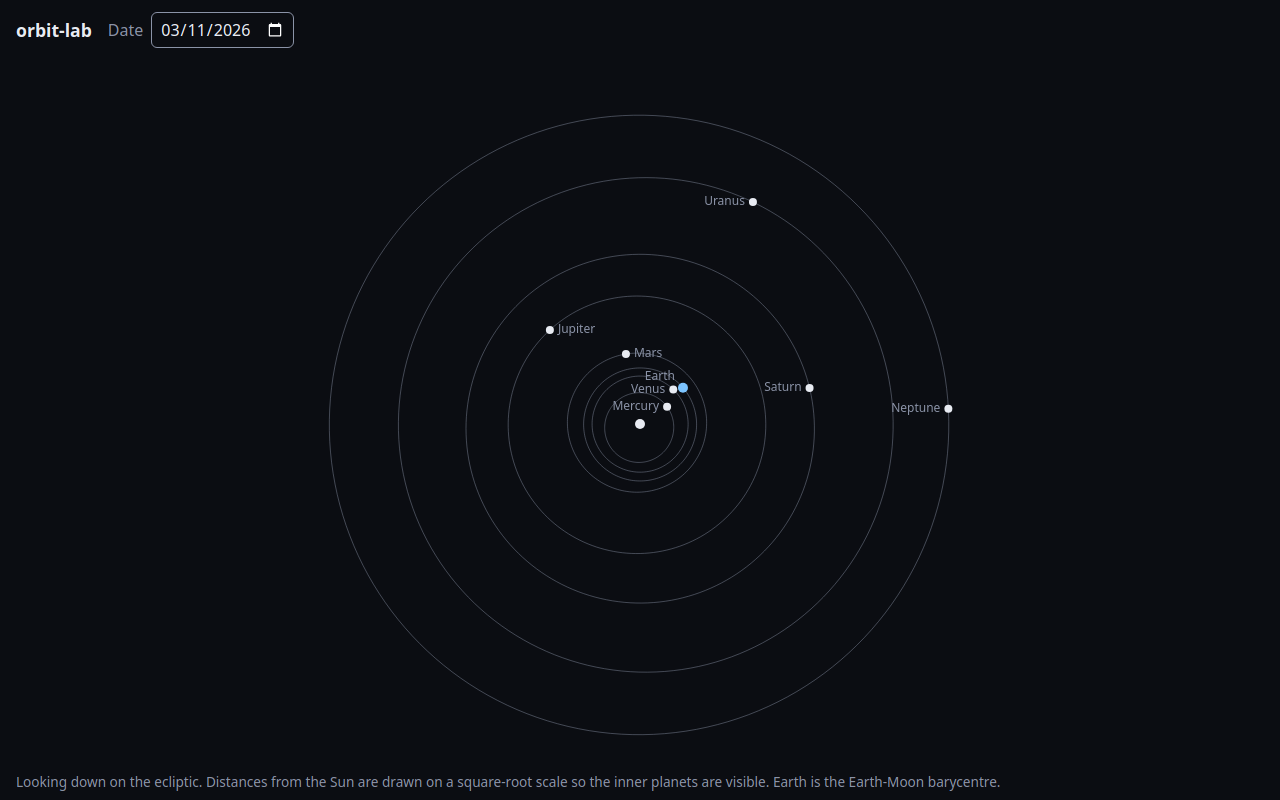
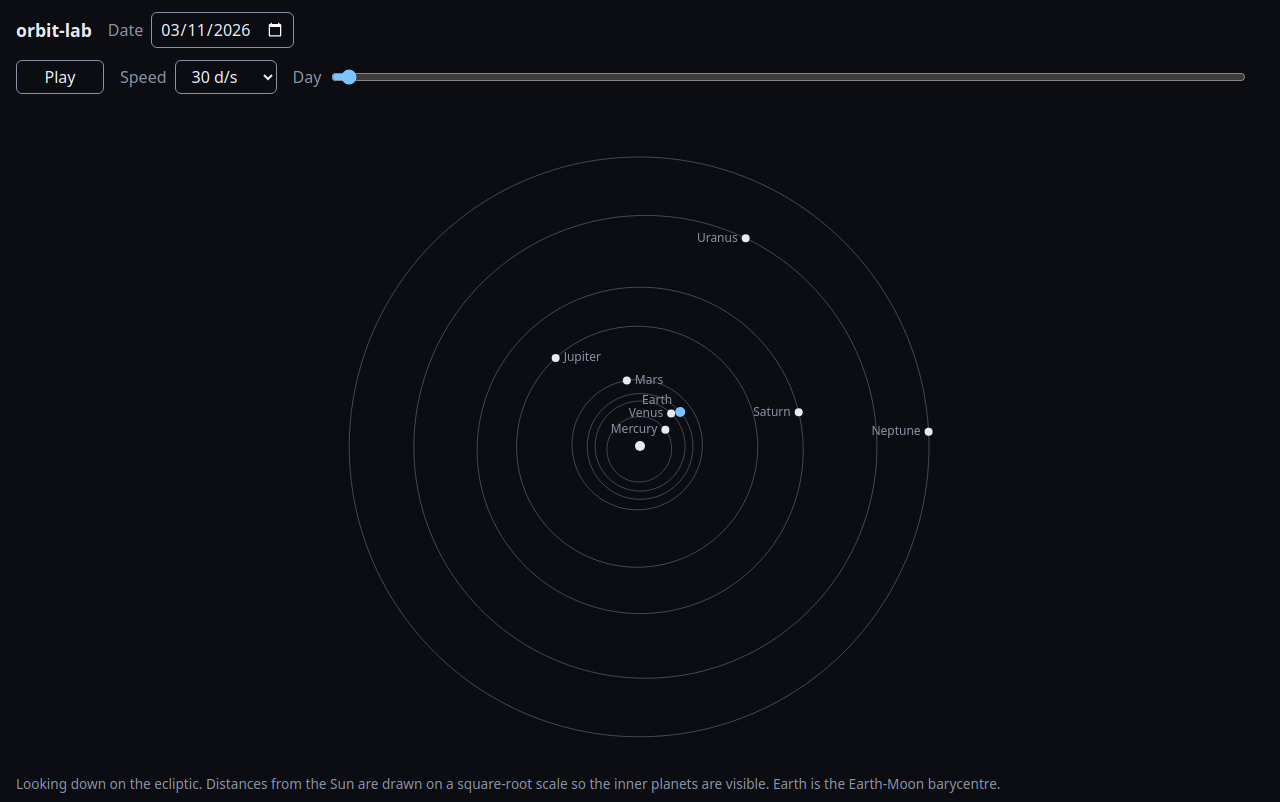
feat: time slider and play controls with a pure clock in core

diff --git a/src/web/main.ts b/src/web/main.ts
@@ -1,3 +1,7 @@
+import {
+  CLOCK_SPAN_DAYS, type ClockState, dayIndexOf, describeSpeed, pause, play, seek, setSpeed, SPEEDS_DAYS_PER_SECOND,
+  stepClock, timeMsOfDayIndex, wholeDay,
+} from '../core/clock';
 import {drawSolarSystem, type Palette} from '../render/draw-solar-system';
 import {formatDateInput, MAX_YEAR, MIN_YEAR, parseDateInput} from './date-input';
 
@@ -6,8 +10,25 @@ const input = document.getElementById('date') as HTMLInputElement;
 const message = document.getElementById('message') as HTMLElement;
 const ctx = canvas.getContext('2d')!;
 
-let current = new Date();
-current = new Date(Date.UTC(current.getUTCFullYear(), current.getUTCMonth(), current.getUTCDate()));
+const playButton = document.getElementById('play') as HTMLButtonElement;
+const speedSelect = document.getElementById('speed') as HTMLSelectElement;
+const slider = document.getElementById('day') as HTMLInputElement;
+const stateLabel = document.getElementById('state') as HTMLElement;
+
+const now = new Date();
+let clock: ClockState = seek(
+  {timeMs: 0, playing: false, daysPerSecond: SPEEDS_DAYS_PER_SECOND[2], stopped: null},
+  Date.UTC(now.getUTCFullYear(), now.getUTCMonth(), now.getUTCDate()),
+);
+let current = wholeDay(clock.timeMs);
+slider.max = String(CLOCK_SPAN_DAYS);
+for (const speed of SPEEDS_DAYS_PER_SECOND) {
+  const option = document.createElement('option');
+  option.value = String(speed);
+  option.textContent = describeSpeed(speed);
+  option.selected = speed === clock.daysPerSecond;
+  speedSelect.append(option);
+}
 input.min = `${MIN_YEAR}-01-01`;
 input.max = `${MAX_YEAR}-12-31`;
 input.value = formatDateInput(current);
@@ -27,6 +48,46 @@ function redraw(): void {
   drawSolarSystem(ctx, {width: rect.width, height: rect.height}, current, palette());
 }
 
+function sync(): void {
+  const day = wholeDay(clock.timeMs);
+  const changed = day.getTime() !== current.getTime();
+  current = day;
+  if (document.activeElement !== input) input.value = formatDateInput(current);
+  slider.value = String(dayIndexOf(clock.timeMs));
+  slider.setAttribute('aria-valuetext', formatDateInput(current));
+  playButton.textContent = clock.playing ? 'Pause' : 'Play';
+  playButton.setAttribute('aria-label', clock.playing ? 'Pause' : 'Play');
+  playButton.setAttribute('aria-pressed', String(clock.playing));
+  stateLabel.textContent = clock.playing
+    ? `Playing at ${describeSpeed(clock.daysPerSecond)}`
+    : clock.stopped === 'end' ? 'Stopped: reached the end of the range (2100)'
+    : clock.stopped === 'start' ? 'Stopped: reached the start of the range (1900)'
+    : 'Paused';
+  if (changed) redraw();
+}
+
+let last: number | null = null;
+function frame(timestamp: number): void {
+  if (!clock.playing) { last = null; return; }
+  if (last !== null) clock = stepClock(clock, timestamp - last);
+  last = timestamp;
+  sync();
+  if (clock.playing) requestAnimationFrame(frame);
+}
+
+playButton.addEventListener('click', () => {
+  clock = clock.playing ? pause(clock) : play(clock);
+  message.textContent = '';
+  sync();
+  if (clock.playing) { last = null; requestAnimationFrame(frame); }
+});
+speedSelect.addEventListener('change', () => { clock = setSpeed(clock, Number(speedSelect.value)); sync(); });
+slider.addEventListener('input', () => {
+  clock = seek(clock, timeMsOfDayIndex(Number(slider.value)));
+  message.textContent = '';
+  sync();
+});
+
 input.addEventListener('input', () => {
   const parsed = parseDateInput(input.value);
   if (!parsed.ok) {
@@ -34,8 +95,8 @@ input.addEventListener('input', () => {
     return;
   }
   message.textContent = '';
-  current = parsed.date;
-  redraw();
+  clock = seek(clock, parsed.date.getTime());
+  sync();
 });
 
 new ResizeObserver(redraw).observe(canvas);

diff --git a/src/core/clock.test.ts b/src/core/clock.test.ts
@@ -1,0 +1,72 @@
+import {expect, test} from 'bun:test';
+import {
+  CLOCK_END_MS, CLOCK_SPAN_DAYS, CLOCK_START_MS, MS_PER_DAY, SPEEDS_DAYS_PER_SECOND,
+  type ClockState, dayIndexOf, describeSpeed, pause, play, seek, setSpeed, stepClock, timeMsOfDayIndex, wholeDay,
+} from './clock';
+
+const base: ClockState = {timeMs: Date.UTC(2000, 0, 1), playing: true, daysPerSecond: 1, stopped: null};
+
+test('each speed advances by exactly speed x elapsed, however the elapsed time is split', () => {
+  for (const speed of SPEEDS_DAYS_PER_SECOND) {
+    const start = {...base, daysPerSecond: speed / 100};
+    let s = start;
+    for (let i = 0; i < 1000; i++) s = stepClock(s, 16);
+    const oneShot = stepClock(start, 16_000);
+    expect(Math.abs(s.timeMs - oneShot.timeMs)).toBeLessThan(1e-3);
+    expect(oneShot.timeMs - start.timeMs).toBeCloseTo((16 * speed * MS_PER_DAY) / 100, 3);
+  }
+});
+
+test('one real second at 1 d/s is one day; 365.25 d/s is a Julian year (a leap year ends 6h short)', () => {
+  expect(stepClock(base, 1000).timeMs - base.timeMs).toBe(MS_PER_DAY);
+  expect(wholeDay(stepClock({...base, daysPerSecond: 365.25}, 1000).timeMs).toISOString()).toBe('2000-12-31T00:00:00.000Z');
+});
+
+test('paused clocks and non-positive elapsed times do not move', () => {
+  expect(stepClock(pause(base), 1000)).toEqual(pause(base));
+  expect(stepClock(base, 0)).toBe(base);
+  expect(stepClock(base, -50)).toBe(base);
+  expect(stepClock(base, NaN)).toBe(base);
+});
+
+test('reaching the end clamps and stops with a reason', () => {
+  const s = stepClock({...base, timeMs: CLOCK_END_MS - MS_PER_DAY, daysPerSecond: 3652.5}, 1000);
+  expect(s).toMatchObject({timeMs: CLOCK_END_MS, playing: false, stopped: 'end'});
+});
+
+test('playing backwards stops at the start', () => {
+  const s = stepClock({...base, timeMs: CLOCK_START_MS + MS_PER_DAY, daysPerSecond: -100}, 1000);
+  expect(s).toMatchObject({timeMs: CLOCK_START_MS, playing: false, stopped: 'start'});
+});
+
+test('play from the end restarts at the beginning and clears the reason', () => {
+  const ended = stepClock({...base, timeMs: CLOCK_END_MS - 1, daysPerSecond: 10}, 1000);
+  const again = play(ended);
+  expect(again).toMatchObject({timeMs: CLOCK_START_MS, playing: true, stopped: null});
+});
+
+test('seek clamps into the range and clears the stop reason', () => {
+  const stopped: ClockState = {...base, playing: false, stopped: 'end'};
+  expect(seek(stopped, Date.UTC(3000, 0, 1))).toMatchObject({timeMs: CLOCK_END_MS, stopped: null});
+  expect(seek(stopped, Date.UTC(1800, 0, 1)).timeMs).toBe(CLOCK_START_MS);
+  expect(seek(stopped, NaN).timeMs).toBe(CLOCK_START_MS);
+});
+
+test('setSpeed keeps position and play state', () => {
+  expect(setSpeed(base, 30)).toEqual({...base, daysPerSecond: 30});
+});
+
+test('day indexes round-trip across the range and the slider span matches the range', () => {
+  expect(CLOCK_SPAN_DAYS).toBe(dayIndexOf(CLOCK_END_MS));
+  for (const day of [0, 1, 366, 36524, CLOCK_SPAN_DAYS]) expect(dayIndexOf(timeMsOfDayIndex(day))).toBe(day);
+  expect(timeMsOfDayIndex(-5)).toBe(CLOCK_START_MS);
+  expect(timeMsOfDayIndex(CLOCK_SPAN_DAYS + 10)).toBe(CLOCK_END_MS);
+});
+
+test('wholeDay drops the time of day', () => {
+  expect(wholeDay(Date.UTC(2020, 5, 15, 13)).toISOString()).toBe('2020-06-15T00:00:00.000Z');
+});
+
+test('speed labels', () => {
+  expect(SPEEDS_DAYS_PER_SECOND.map(describeSpeed)).toEqual(['1 d/s', '10 d/s', '30 d/s', '100 d/s', '1 yr/s', '10 yr/s']);
+});

diff --git a/src/core/clock.ts b/src/core/clock.ts
@@ -1,0 +1,74 @@
+export const MS_PER_DAY = 86_400_000;
+export const CLOCK_START_MS = Date.UTC(1900, 0, 1);
+export const CLOCK_END_MS = Date.UTC(2100, 11, 31);
+export const CLOCK_SPAN_DAYS = (CLOCK_END_MS - CLOCK_START_MS) / MS_PER_DAY;
+
+/** Playback speeds in simulated days per real second. */
+export const SPEEDS_DAYS_PER_SECOND = [1, 10, 30, 100, 365.25, 3652.5] as const;
+
+export type StopReason = 'start' | 'end';
+
+export interface ClockState {
+  /** Simulated time, milliseconds since the Unix epoch (UTC). Kept unrounded so repeated steps do not drift. */
+  timeMs: number;
+  playing: boolean;
+  daysPerSecond: number;
+  /** Why playback last stopped on its own; null while playing or after a manual pause. */
+  stopped: StopReason | null;
+}
+
+export function clampTimeMs(timeMs: number): number {
+  if (Number.isNaN(timeMs)) return CLOCK_START_MS;
+  return Math.min(CLOCK_END_MS, Math.max(CLOCK_START_MS, timeMs));
+}
+
+/**
+ * Advances the clock by real elapsed milliseconds. Negative speeds play backwards.
+ * Hitting either end of the range clamps the time and stops playback.
+ */
+export function stepClock(state: ClockState, elapsedMs: number): ClockState {
+  if (!state.playing || !(elapsedMs > 0)) return state;
+  const next = state.timeMs + (elapsedMs * state.daysPerSecond * MS_PER_DAY) / 1000;
+  if (next >= CLOCK_END_MS) return {...state, timeMs: CLOCK_END_MS, playing: false, stopped: 'end'};
+  if (next <= CLOCK_START_MS) return {...state, timeMs: CLOCK_START_MS, playing: false, stopped: 'start'};
+  return {...state, timeMs: next};
+}
+
+/** Starts playback; from the end of the range it restarts at the beginning so play is never a no-op. */
+export function play(state: ClockState): ClockState {
+  const atEnd = state.daysPerSecond >= 0 ? state.timeMs >= CLOCK_END_MS : state.timeMs <= CLOCK_START_MS;
+  const timeMs = atEnd ? (state.daysPerSecond >= 0 ? CLOCK_START_MS : CLOCK_END_MS) : state.timeMs;
+  return {...state, timeMs, playing: true, stopped: null};
+}
+
+export function pause(state: ClockState): ClockState {
+  return {...state, playing: false, stopped: null};
+}
+
+/** A manual jump (slider or date field) clamps into range and clears a stop reason. */
+export function seek(state: ClockState, timeMs: number): ClockState {
+  return {...state, timeMs: clampTimeMs(timeMs), stopped: null};
+}
+
+export function setSpeed(state: ClockState, daysPerSecond: number): ClockState {
+  return {...state, daysPerSecond};
+}
+
+export function dayIndexOf(timeMs: number): number {
+  return Math.floor((clampTimeMs(timeMs) - CLOCK_START_MS) / MS_PER_DAY);
+}
+
+export function timeMsOfDayIndex(day: number): number {
+  return clampTimeMs(CLOCK_START_MS + Math.round(day) * MS_PER_DAY);
+}
+
+/** Calendar day (UTC midnight) shown for a simulated time. */
+export function wholeDay(timeMs: number): Date {
+  return new Date(CLOCK_START_MS + dayIndexOf(timeMs) * MS_PER_DAY);
+}
+
+export function describeSpeed(daysPerSecond: number): string {
+  const d = Math.abs(daysPerSecond);
+  if (d >= 365) return `${+(d / 365.25).toFixed(1)} yr/s`;
+  return `${d} d/s`;
+}

diff --git a/public/index.html b/public/index.html
@@ -13,6 +13,12 @@
   label{display:flex;align-items:center;gap:.5rem;color:var(--muted)}
   input{font:inherit;color:var(--fg);background:transparent;border:1px solid var(--muted);border-radius:6px;padding:.25rem .5rem;color-scheme:inherit}
   input:focus-visible{outline:2px solid var(--accent);outline-offset:2px}
+  button,select{font:inherit;color:var(--fg);background:transparent;border:1px solid var(--muted);border-radius:6px;padding:.25rem .75rem;cursor:pointer;color-scheme:inherit}
+  button:focus-visible,select:focus-visible,input:focus-visible{outline:2px solid var(--accent);outline-offset:2px}
+  #controls{display:flex;flex-wrap:wrap;align-items:center;gap:.5rem 1rem;padding:0 1rem .5rem}
+  .grow{flex:1 1 16rem}
+  #day{flex:1;min-width:8rem;accent-color:var(--accent)}
+  #play{min-width:5.5rem}
   #message{min-height:1.5em;margin:0;padding:0 1rem;color:var(--accent)}
   main{flex:1;min-height:0;display:flex}
   canvas{flex:1;width:100%;min-height:320px;display:block}
@@ -24,6 +30,12 @@
   <h1>orbit-lab</h1>
   <label>Date <input id="date" type="date" autocomplete="off"></label>
 </header>
+<div id="controls" role="group" aria-label="Time controls">
+  <button id="play" type="button" aria-label="Play">Play</button>
+  <label>Speed <select id="speed"></select></label>
+  <label class="grow">Day <input id="day" type="range" min="0" step="1" aria-label="Date slider, 1900 to 2100"></label>
+  <span id="state" role="status" aria-live="polite"></span>
+</div>
 <p id="message" role="status" aria-live="polite"></p>
 <main><canvas id="view" role="img" aria-label="The eight planets on their orbits around the Sun, seen from above the ecliptic"></canvas></main>
 <footer>Looking down on the ecliptic. Distances from the Sun are drawn on a square-root scale so the inner planets are visible. Earth is the Earth-Moon barycentre.</footer>
